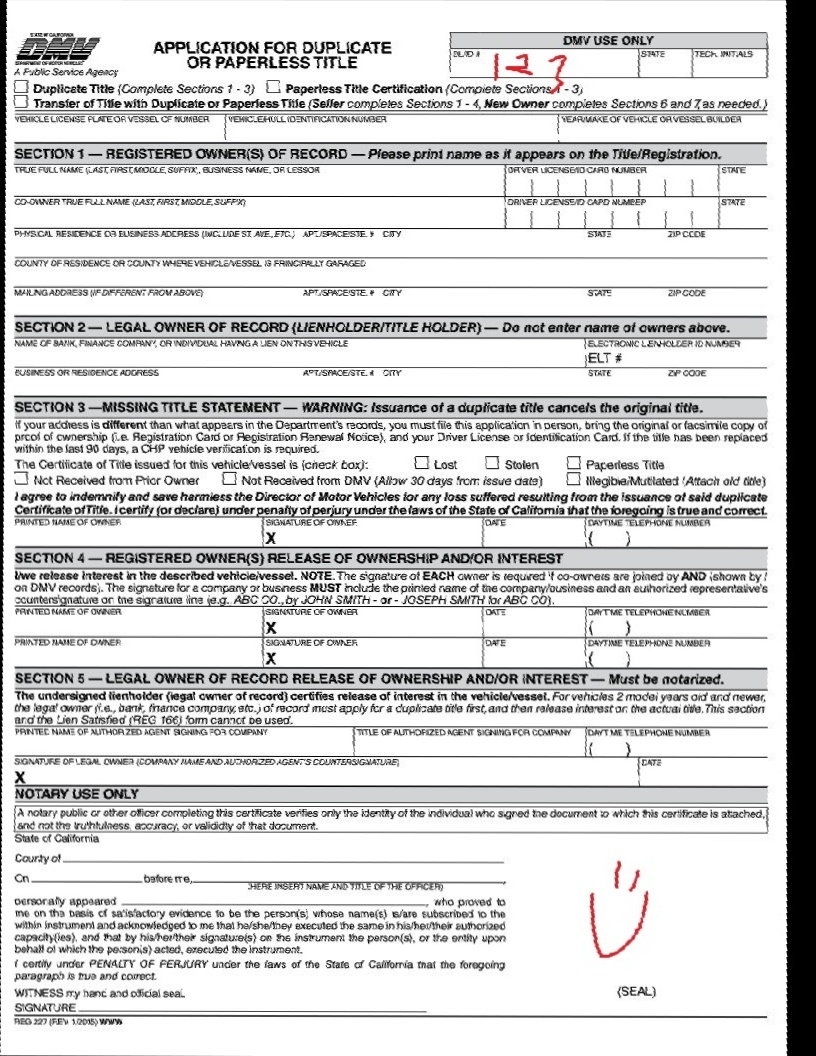
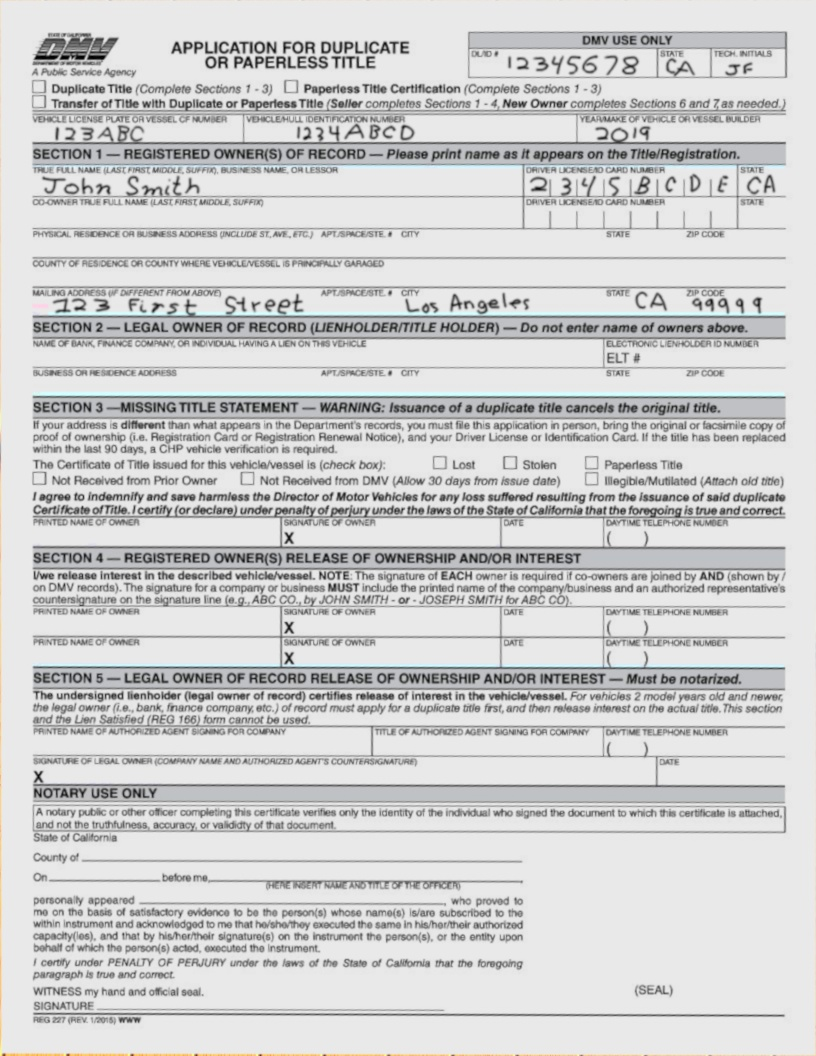
Fixed cropping to account for mutliple contours in image. Now it will crop to the contour with the largest area, which will almost certainly be the paper in any reasonable use case.

diff --git a/Homography/Preprocessing.py b/Homography/Preprocessing.py
@@ -62,18 +62,26 @@ def getAlignedImage(image, reference):
 	imgG = cv2.cvtColor(result, cv2.COLOR_BGR2GRAY)
 	blur = cv2.GaussianBlur(src = imgG, ksize = (5,5), sigmaX = 0)
 	t, binary = cv2.threshold(src = blur,thresh = 127, maxval = 255, type = cv2.THRESH_BINARY)
-	contours, _ = cv2.findContours(image = binary, mode = cv2.RETR_EXTERNAL, method = cv2.CHAIN_APPROX_SIMPLE)
+	_image, contours, _hierarchy = cv2.findContours(image = binary, mode = cv2.RETR_EXTERNAL, method = cv2.CHAIN_APPROX_SIMPLE)
+
+	#Get biggest contour by area(should be the paper)
+	areas = []
+	for c in contours:
+		areas.append(cv2.contourArea(c))
+
+	sortedAreas = sorted(zip(areas, contours), key = lambda x: x[0], reverse = True)
+	biggestContour = sortedAreas[0][1] #0 = largest area, 1 = contour
 
 	#update bounding rectangles
 	cornerMinX = 0
 	cornerMinY = 0
-	for c in contours:
-		x, y, w, h = cv2.boundingRect(c)
-		
-		cornerMinX = x
-		cornerMinY = y
+	
+	#find bounded rect for cropping boundaries
+	x, y, w, h = cv2.boundingRect(biggestContour)
+	cornerMinX = x
+	cornerMinY = y
 
-		print("x: ", x, "; y: ", y)
+	print("x: ", x, "; y: ", y)
 
 	#crop the image
 	crop = result[cornerMinY:cornerMinY+height, cornerMinX:cornerMinX+width]
